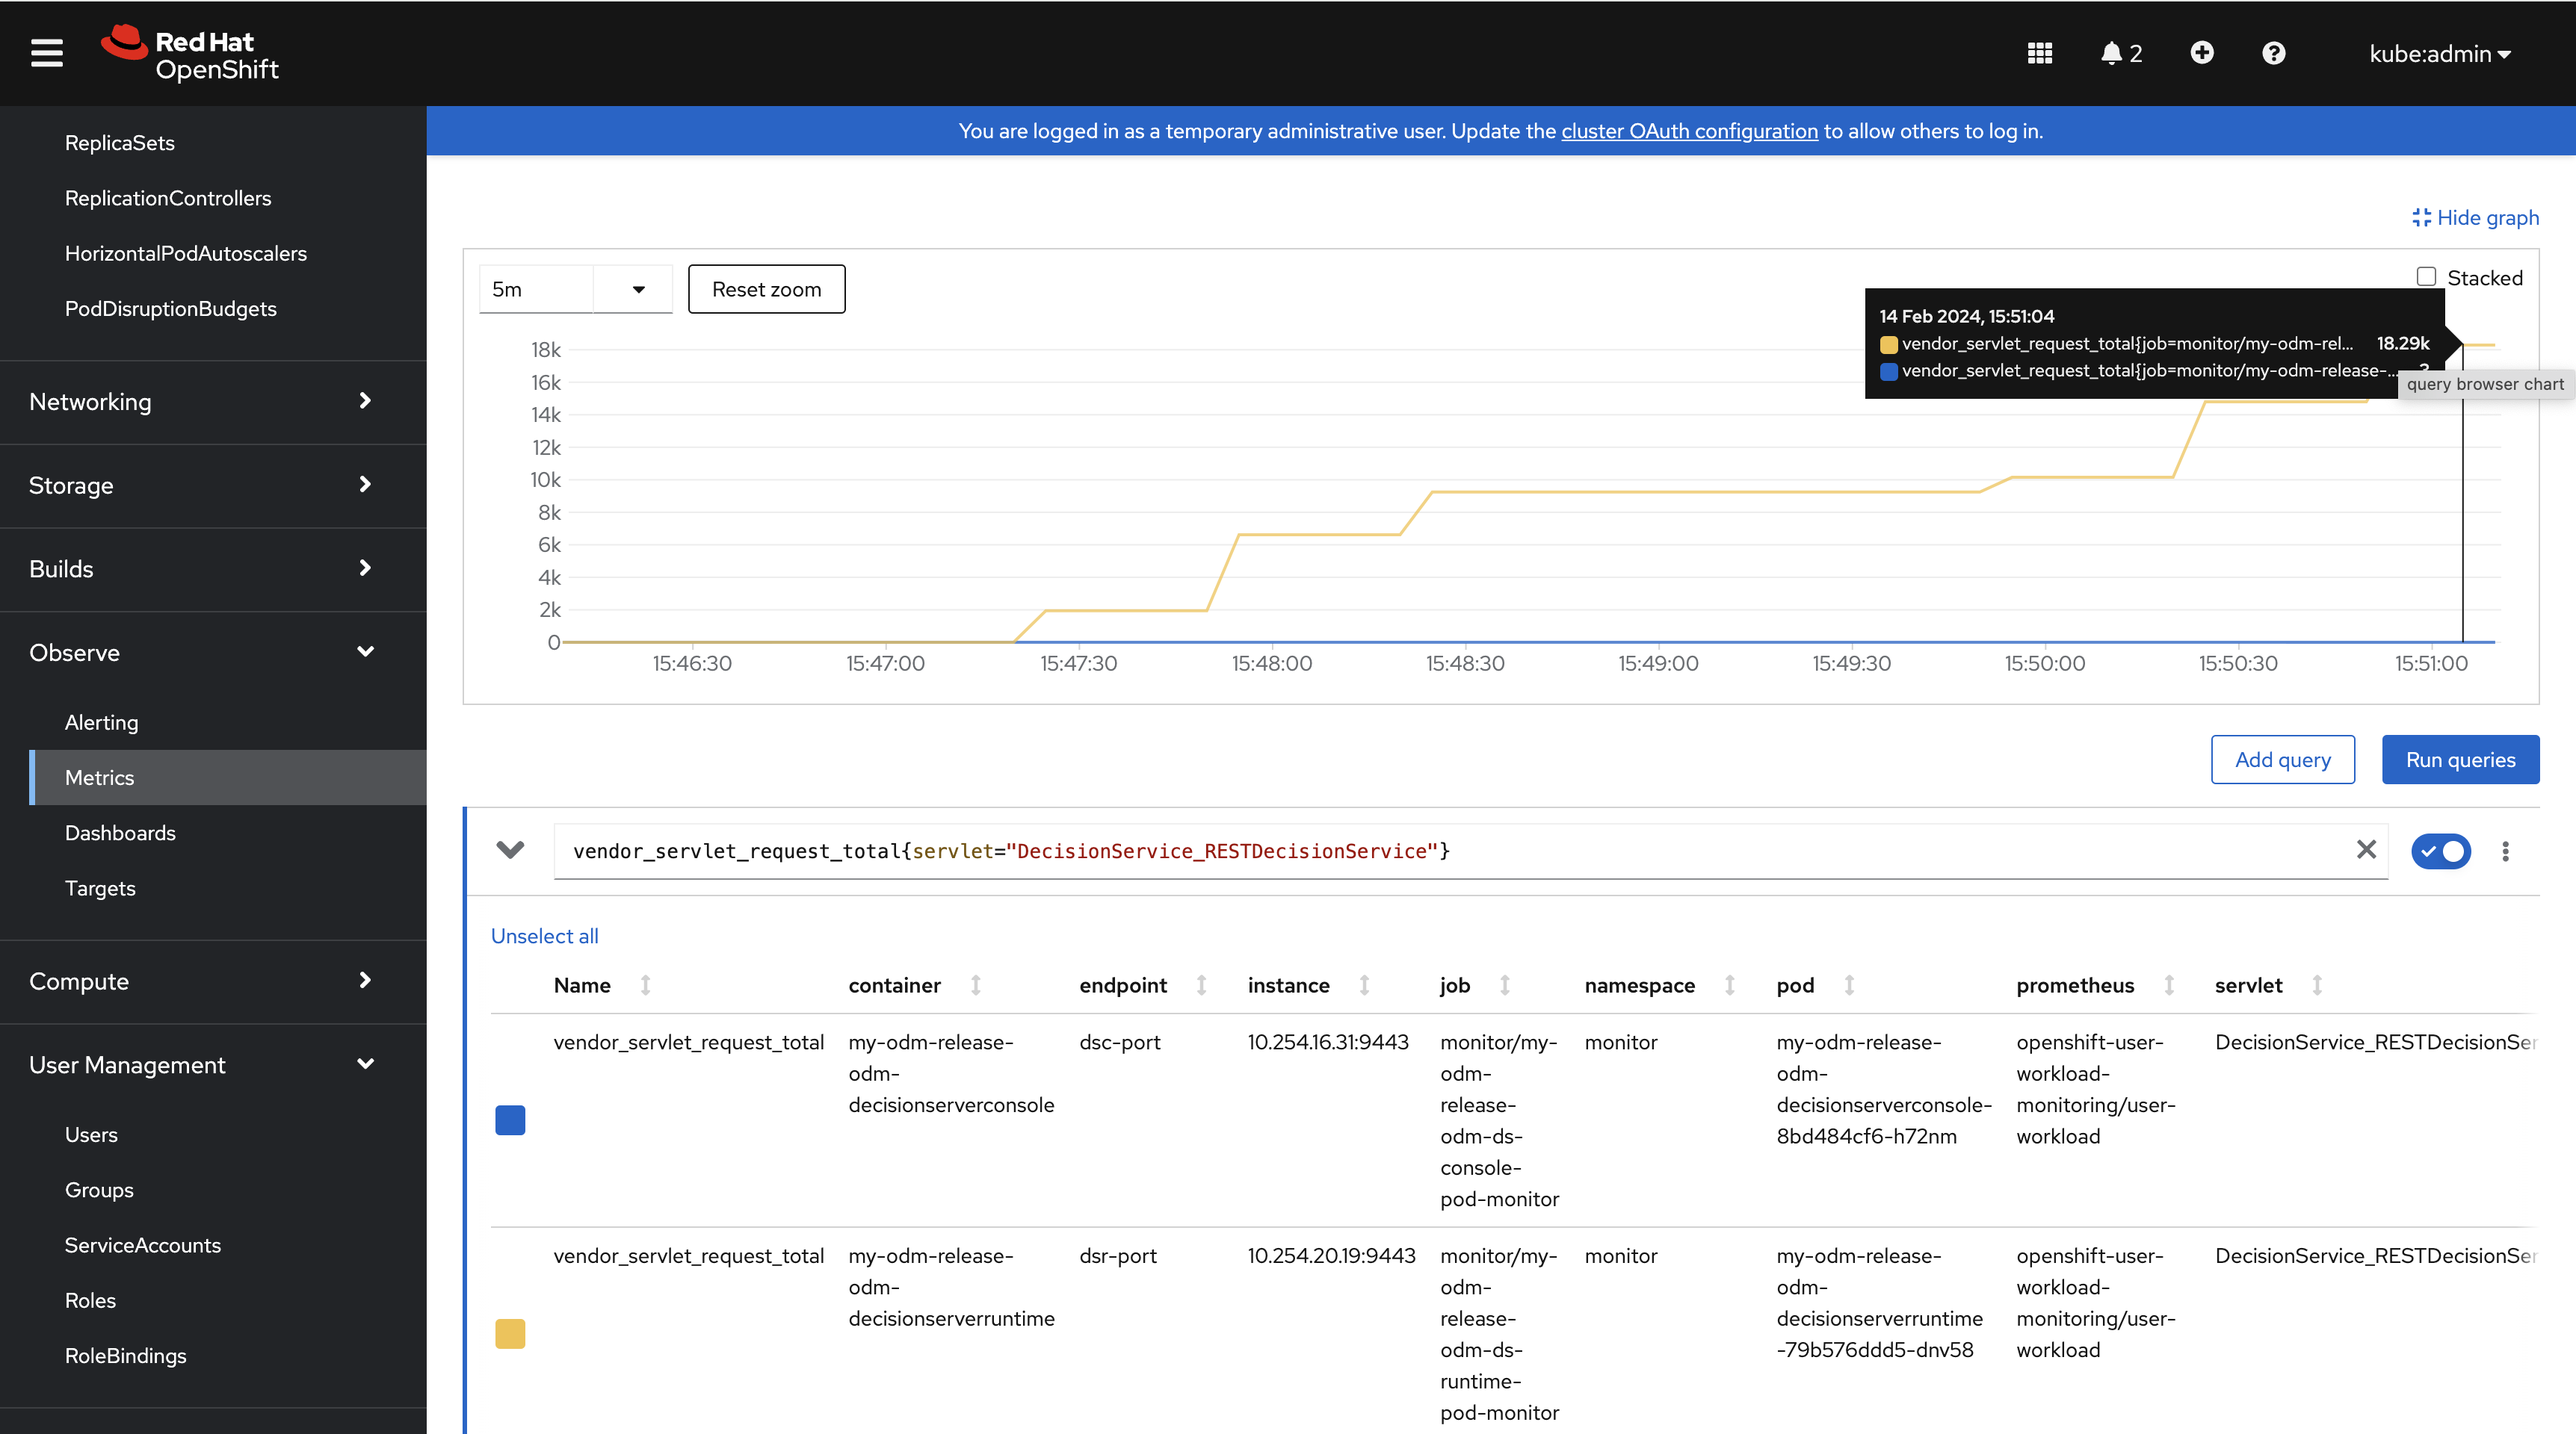
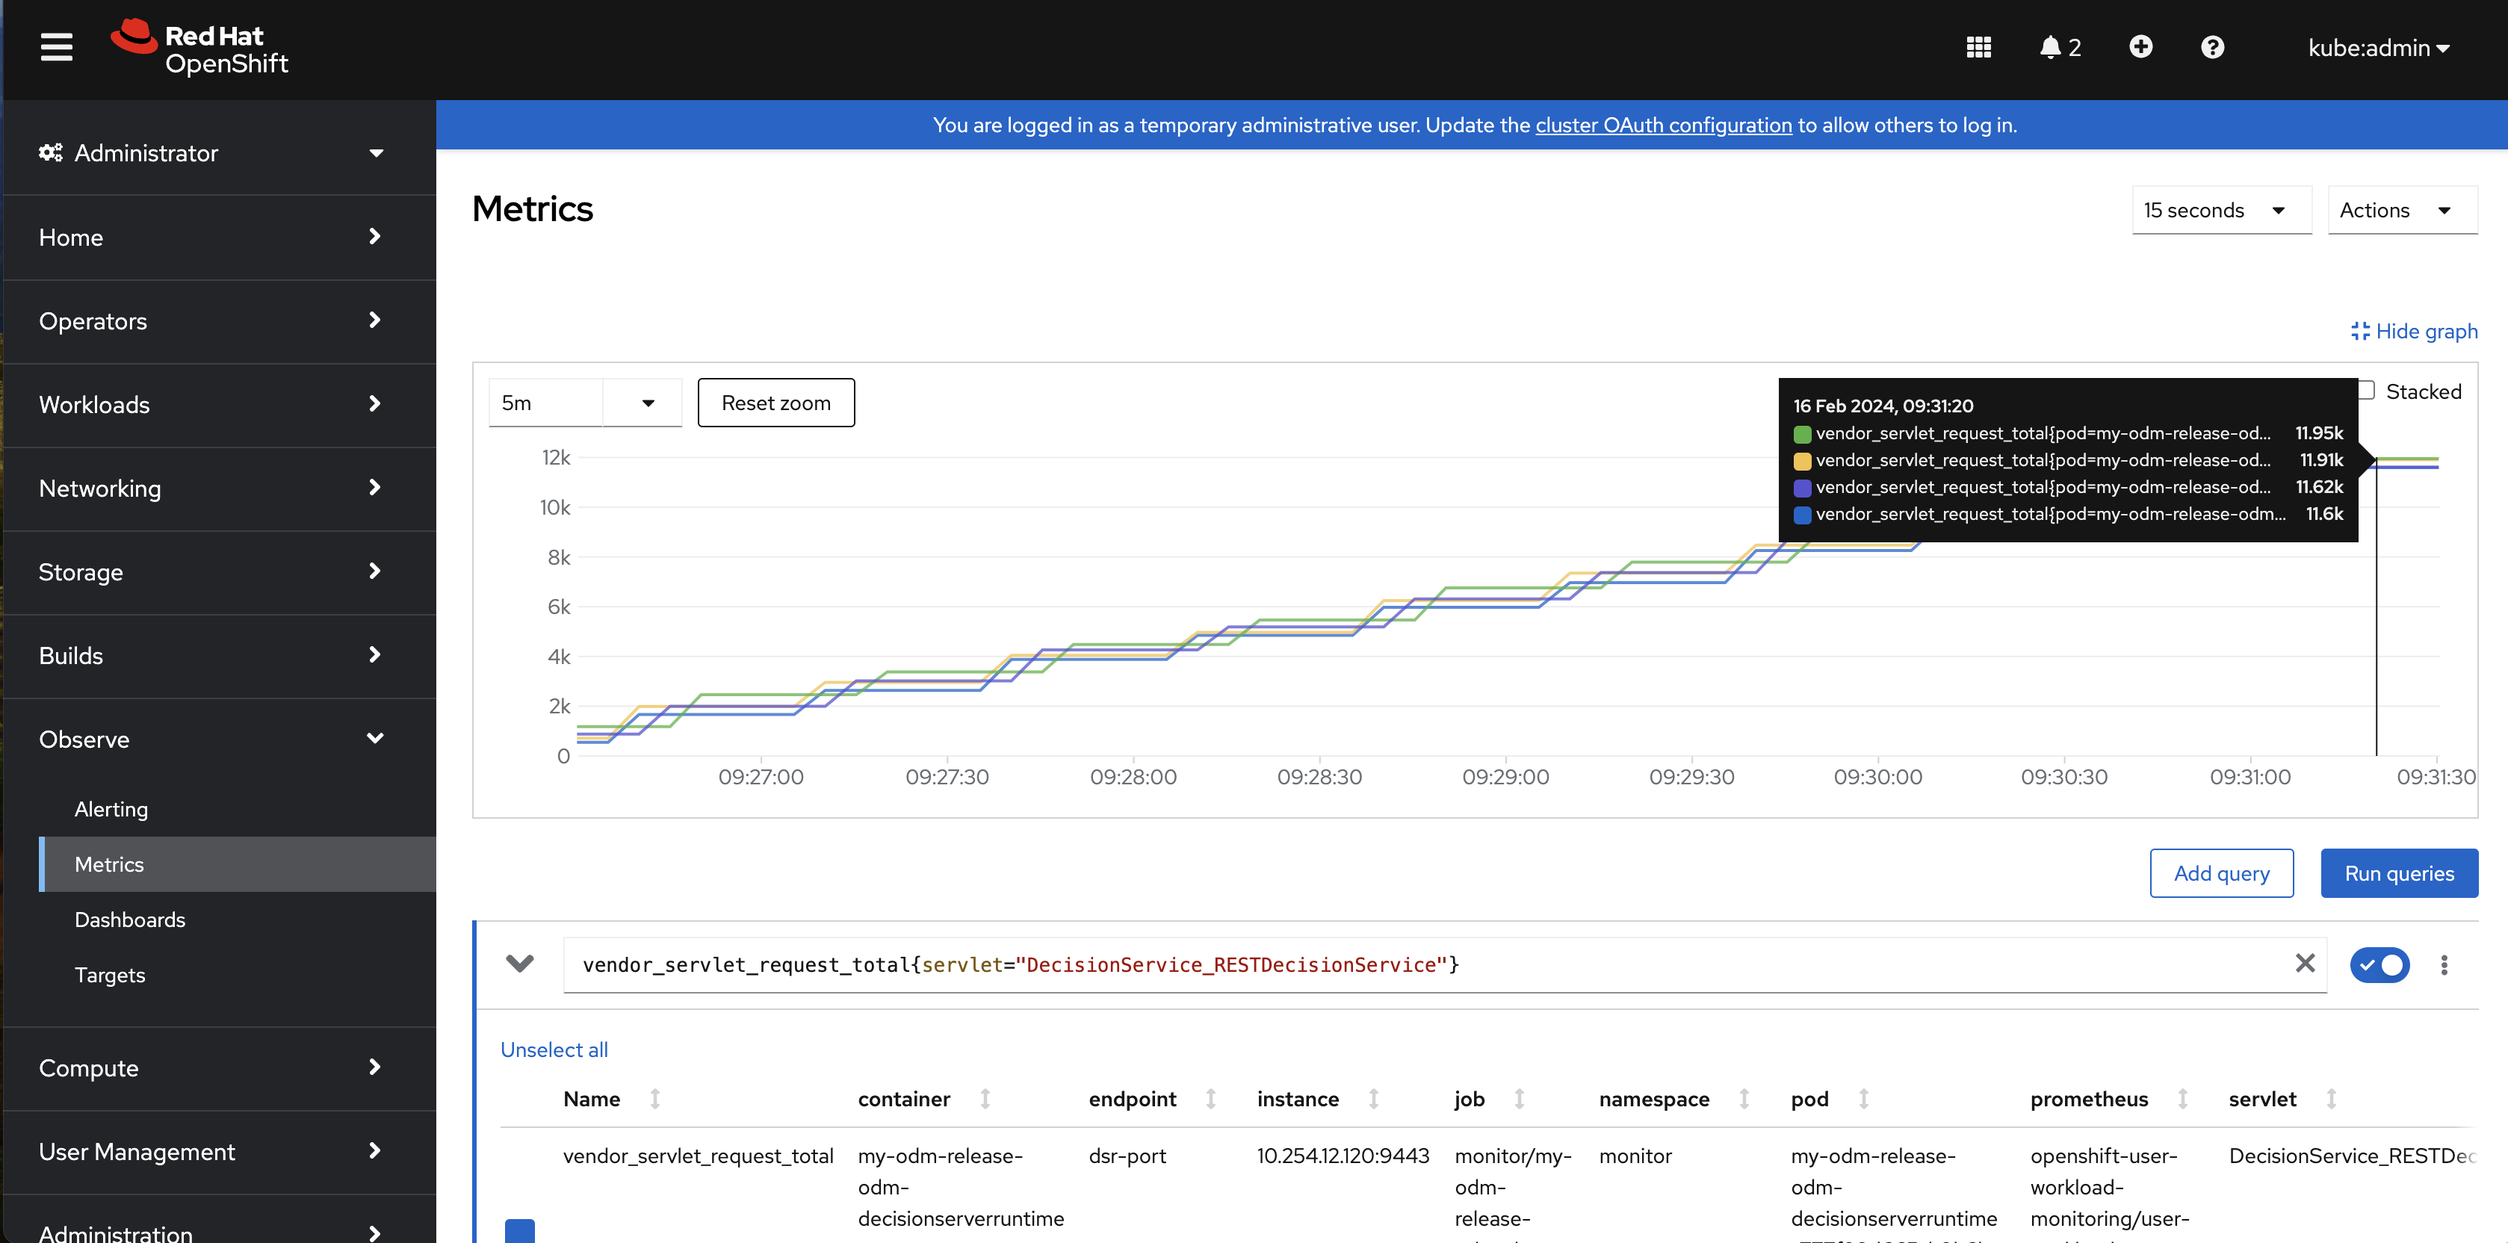
change runtime screenshot

diff --git a/contrib/monitor/mpmetrics/README.md b/contrib/monitor/mpmetrics/README.md
@@ -164,7 +164,8 @@ For example put **base_gc_total** in the **Expression** field and click on the *
 ![Queries](./images/queries.png)
 
 If you are interested by servlet requests managed by the runtime, you can use the query **vendor_servlet_request_total{servlet="DecisionService_RESTDecisionService"}**
-
+For example, by monitoring this metrics, you can check the behaviour of the load balancer is correct if all Decision Server Runtime replicas are reciving almost the same number of requets like in the following screenshot.
+ 
 ![Runtime Servlet Request](./images/RuntimeRequest.png)
 
 ### Consume Metrics with Grafana Dashboard
